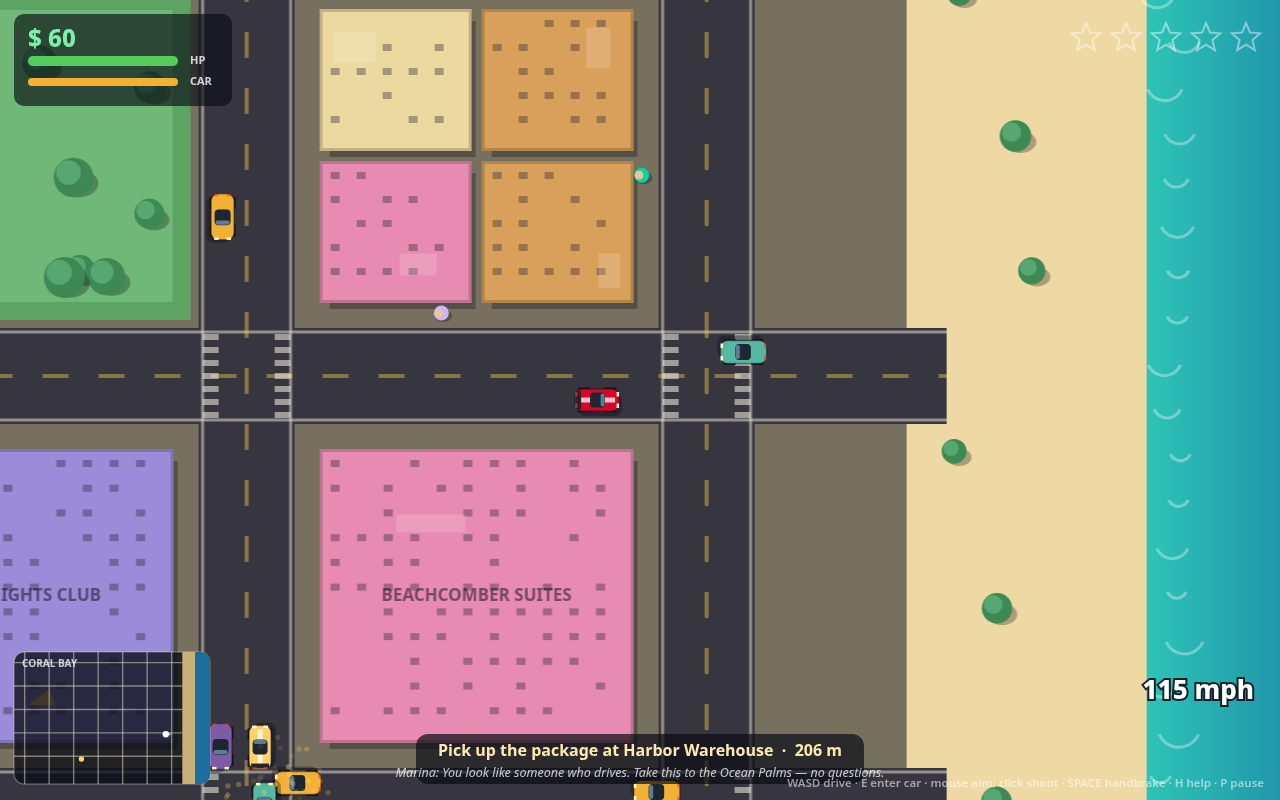
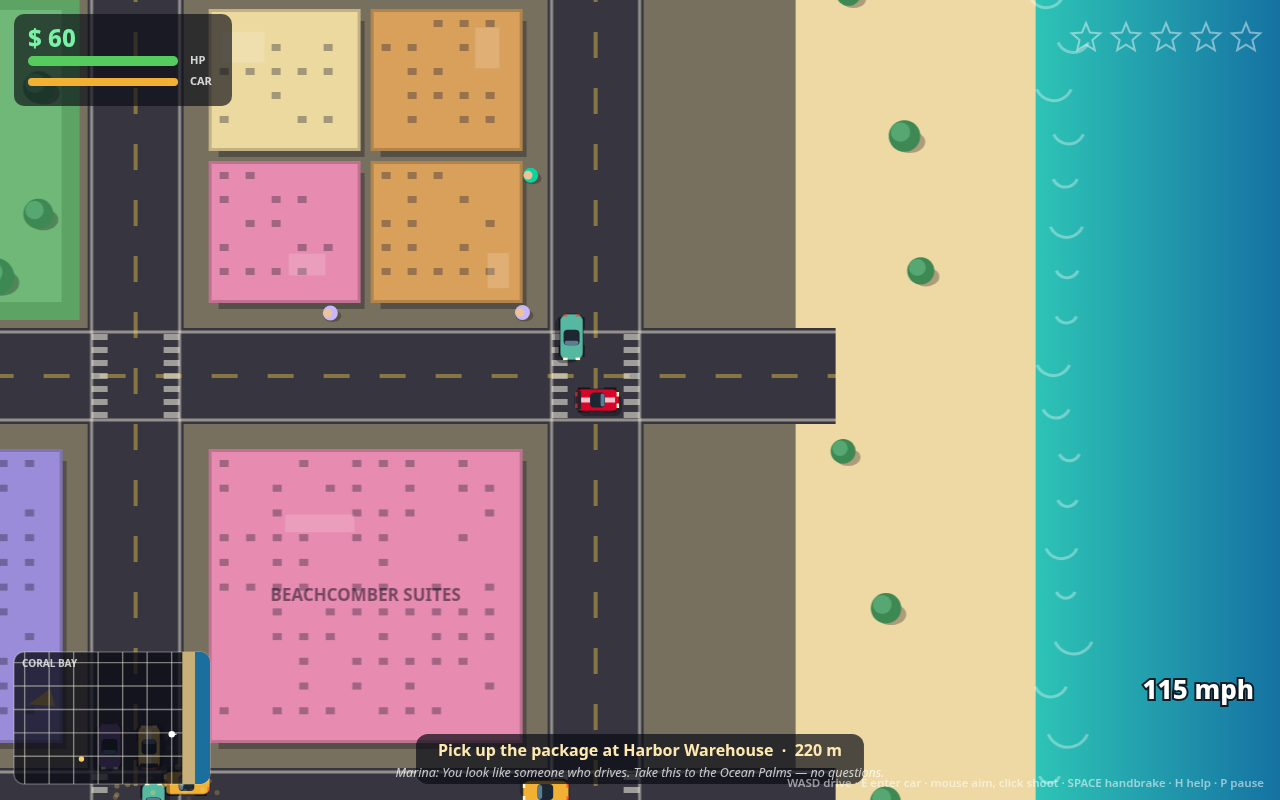
Re-stage drive/chase/mission screenshots per independent QC
- mission: player in a car stopped at the Harbor Warehouse beacon,
  landmark + hospital in frame, traffic passing, objective bar up
- chase: hero car in red out front, four units strung out behind and
  to the sides instead of piled onto the player
- drive: run ends mid-intersection at the last cross street, a car
  crossing in front, a pedestrian on the corner crosswalk, 115 mph

diff --git a/game/src/shots.js b/game/src/shots.js
@@ -7,7 +7,7 @@
 import { WORLD } from './config.js';
 import { SCREEN_PLAY, SCREEN_TITLE, stepGame } from './game.js';
 import { blankInput } from './input.js';
-import { makeCar, spawnPoliceCar } from './entities.js';
+import { makeCar, makePed, spawnPoliceCar } from './entities.js';
 
 function runSteps(game, audio, steps, input) {
   for (let i = 0; i < steps; i += 1) stepGame(game, input ?? blankInput(), audio);
@@ -49,20 +49,28 @@ export function stageShot(name, game, audio) {
   const player = game.player;
   if (name === 'drive') {
     game.screen = SCREEN_PLAY;
-    // East on the coast road in a red sports car, the beach and the sea
-    // coming into frame, traffic passing the other way.
-    const car = putPlayerInCar(game, 'sport', 2520, WORLD.roadsY[3] + 24, 0, 320);
+    // East on the coast road in a red sports car, timed so the run ends
+    // mid-intersection at the last cross street before the beach: a car
+    // is crossing in front of the hero and a pedestrian is stepping
+    // onto the crosswalk at the corner.
+    const car = putPlayerInCar(game, 'sport', 2631, WORLD.roadsY[3] + 24, 0, 320);
     car.paint = '#d90429';
-    const oncoming = makeCar(game.rng, 'sedan', 'traffic');
-    oncoming.axis = 'x';
-    oncoming.roadIndex = 3;
-    oncoming.dir = -1;
-    oncoming.x = 3180;
-    oncoming.y = WORLD.roadsY[3] - 24;
-    oncoming.angle = Math.PI;
-    oncoming.speed = oncoming.cruise * 0.8;
-    game.cars.push(oncoming);
-    placeTraffic(game, 5, 1, 1230, 'taxi');
+    placeTraffic(game, 6, 1, 1335, 'sedan'); // southbound, entering the crossing
+    const ped = makePed(game.rng, game.city);
+    let anchor = null;
+    let bestGap = Infinity;
+    for (const b of game.city.buildings) {
+      if (b.y + b.h > WORLD.roadsY[3] || b.x + b.w > WORLD.roadsX[6]) continue;
+      const gap = (WORLD.roadsY[3] - (b.y + b.h)) + (WORLD.roadsX[6] - (b.x + b.w));
+      if (gap < bestGap) { bestGap = gap; anchor = b; }
+    }
+    if (anchor) {
+      ped.anchor = anchor;
+      ped.corner = 2; // its south-east corner, the one by the intersection
+      ped.x = anchor.x + anchor.w + 15;
+      ped.y = anchor.y + anchor.h + 41;
+      game.peds.push(ped);
+    }
     const input = blankInput();
     input.up = true;
     runSteps(game, audio, 46, input);
@@ -70,14 +78,17 @@ export function stageShot(name, game, audio) {
   }
   if (name === 'chase') {
     game.screen = SCREEN_PLAY;
-    // Four stars on the east-west drag: three units already on the tail.
-    putPlayerInCar(game, 'sedan', 1330, WORLD.roadsY[2] + 24, 0, 330);
+    // Four stars on the east-west drag: the hero car out front in red,
+    // four units strung out behind and to the sides — close enough to
+    // read as a hunt, far enough back that the hero stays the subject.
+    const hero = putPlayerInCar(game, 'sedan', 1330, WORLD.roadsY[2] + 24, 0, 330);
+    hero.paint = '#d90429';
     game.wanted = 4.2;
     game.peakWanted = 4.2;
     game.lastCrime = 0;
     game.milestones.heat3 = true; // already earned before this frame
     game.milestones.sticky = true;
-    const spots = [[-185, -54], [-238, 42], [-335, -10]];
+    const spots = [[-290, -54], [-345, 16], [-455, -48], [-540, 20]];
     for (const [dx, dy] of spots) {
       const cop = spawnPoliceCar(game.rng, player.x, player.y);
       cop.x = player.x + dx;
@@ -90,18 +101,28 @@ export function stageShot(name, game, audio) {
     placeTraffic(game, 3, -1, 900, 'sedan');
     const input = blankInput();
     input.up = true;
-    runSteps(game, audio, 40, input);
+    runSteps(game, audio, 30, input);
     return;
   }
   if (name === 'mission') {
     game.screen = SCREEN_PLAY;
-    // On foot, a short walk from the package, the beacon in plain sight.
+    // Pulled up at the beacon in a car, the warehouse filling the frame
+    // behind it, traffic rolling past on the harbour road, the objective
+    // bar up: the delivery loop in one picture. The car stops just
+    // outside the pickup radius so the beacon stays on the package.
     const target = game.missions.target();
-    player.x = target.x - 128;
-    player.y = target.y + 92;
-    player.angle = Math.atan2(target.y - player.y, target.x - player.x);
-    game.camera.x = player.x + 60;
-    game.camera.y = player.y - 30;
+    const car = putPlayerInCar(game, 'sedan', target.x - 72, WORLD.roadsY[4] + 24, 0, 0);
+    car.paint = '#3f88c5';
+    const passing = makeCar(game.rng, 'sedan', 'traffic');
+    passing.axis = 'x';
+    passing.roadIndex = 4;
+    passing.dir = -1;
+    passing.x = target.x + 300;
+    passing.y = WORLD.roadsY[4] - 24;
+    passing.angle = Math.PI;
+    passing.speed = passing.cruise * 0.8;
+    game.cars.push(passing);
+    placeTraffic(game, 3, -1, 1700, 'taxi');
     runSteps(game, audio, 24, blankInput());
     return;
   }
